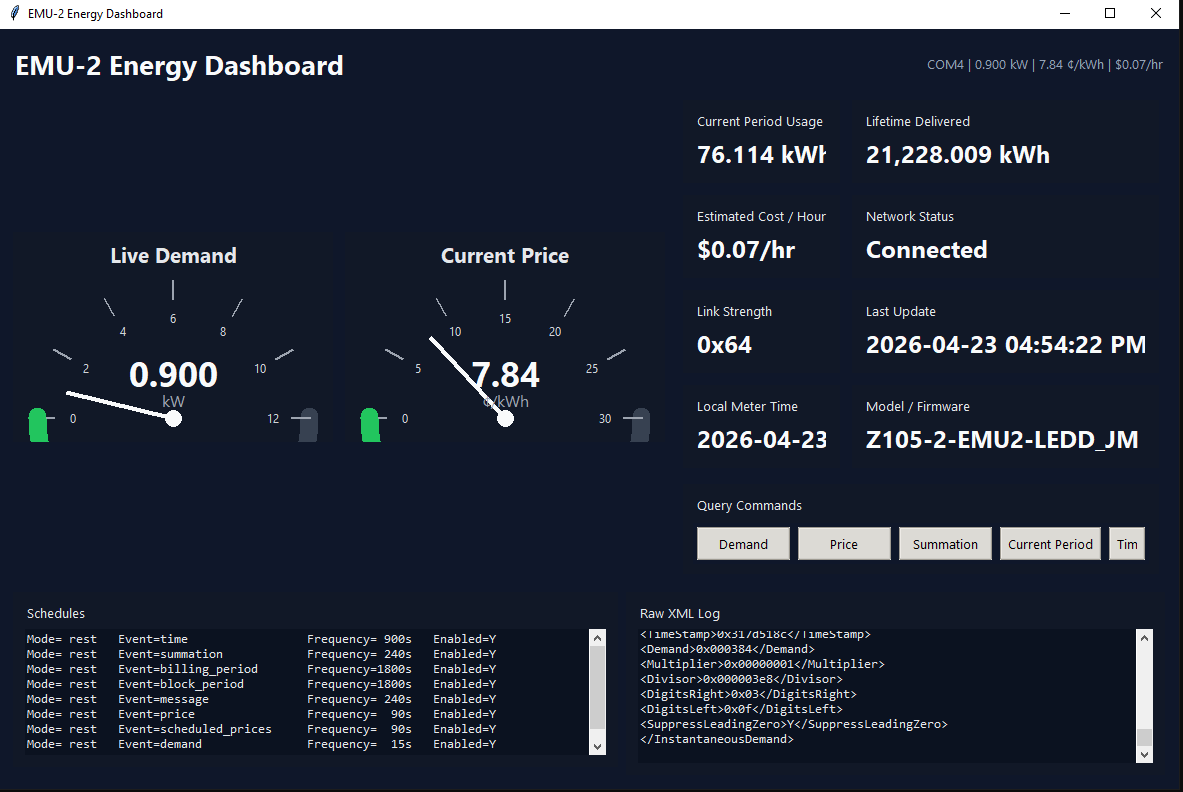
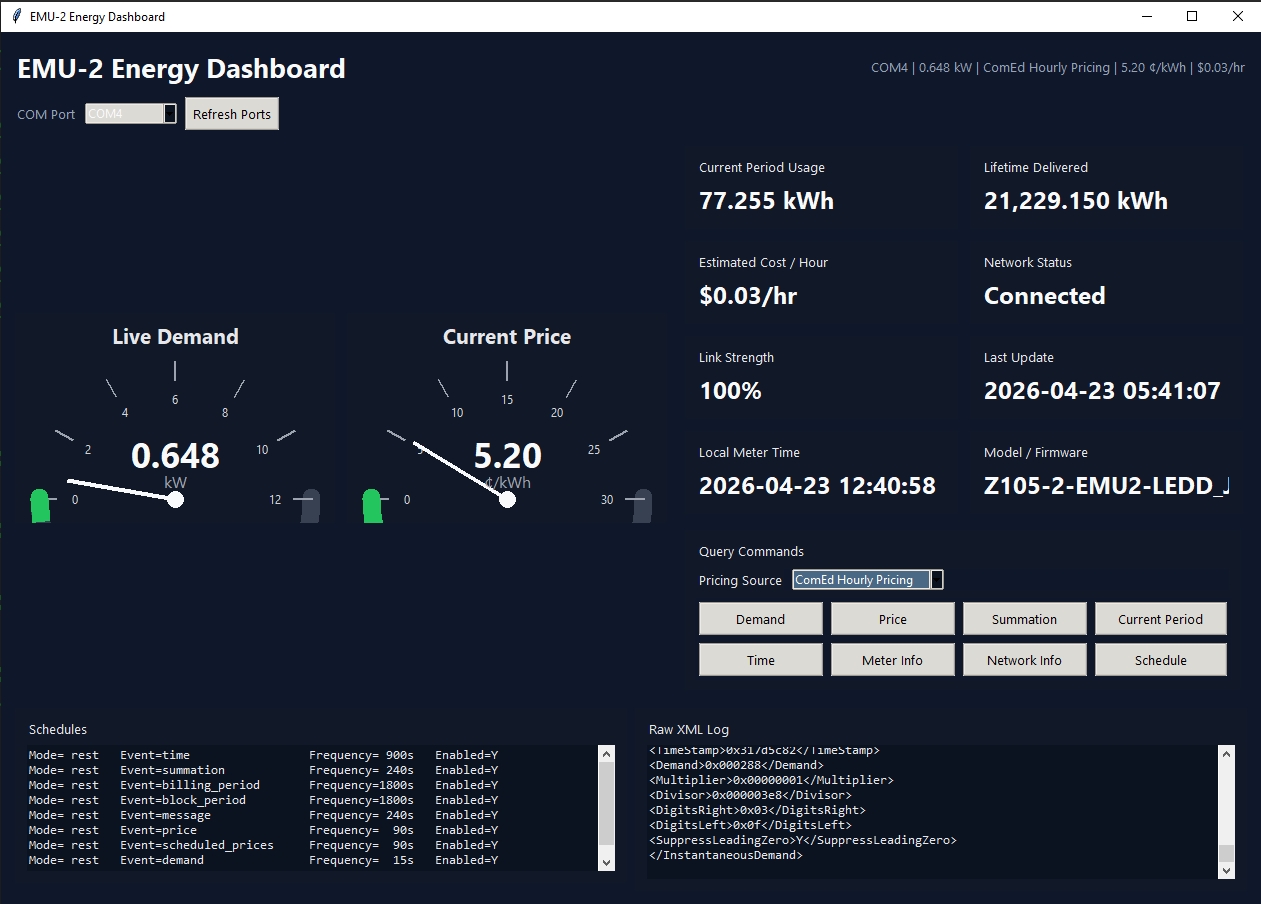
Persist pricing source selection

diff --git a/dashboard.py b/dashboard.py
@@ -504,7 +504,10 @@ class EmuDashboardApp:
             "schedule_lines": [],
         }
 
-        self.pricing_source_var = tk.StringVar(value=PRICING_SOURCE_NONE)
+        preferred_pricing_source = self.config_data.get("preferred_pricing_source") or PRICING_SOURCE_NONE
+        if preferred_pricing_source not in [PRICING_SOURCE_NONE, PRICING_SOURCE_EMU, PRICING_SOURCE_COMED]:
+            preferred_pricing_source = PRICING_SOURCE_NONE
+        self.pricing_source_var = tk.StringVar(value=preferred_pricing_source)
         self.comed_fetch_in_progress = False
 
         self._build_ui()
@@ -965,6 +968,8 @@ class EmuDashboardApp:
         return 0.0
 
     def on_pricing_source_changed(self, _event=None):
+        self.config_data["preferred_pricing_source"] = self.pricing_source_var.get()
+        save_app_config(self.config_data)
         if self.pricing_source_var.get() == PRICING_SOURCE_COMED:
             self.fetch_comed_price()
         self.refresh_ui()

diff --git a/README.md b/README.md
@@ -1,0 +1,45 @@
+# EMU-2 Smart Meter Data Dashboard
+
+Desktop dashboard for reading live EMU-2 smart meter data over a serial connection and presenting it in a simple Tkinter UI.
+
+![Dashboard Screenshot](Images/Screenshot.png)
+
+## Features
+
+- Live demand gauge in kW.
+- Current price gauge with selectable pricing source:
+  - No Pricing Source
+  - EMU-2 Price
+  - ComEd Hourly Pricing
+- ComEd pricing integration using the latest feed from `https://hourlypricing.comed.com/api?type=5minutefeed`.
+- Estimated cost per hour based on live demand and the active pricing source.
+- Current period usage and lifetime delivered energy cards.
+- Network status and link strength display, with link strength shown as a percentage.
+- Local meter time, firmware, and model details.
+- Schedule viewer and raw XML log panel.
+- COM port selector with saved preferred port.
+- Automatic reconnect with a 3 second retry delay if the EMU-2 is unavailable or disconnects.
+- Saved preferred pricing source across app restarts.
+
+## Requirements
+
+- Python 3.10+
+- `pyserial`
+- An EMU-2 connected over a serial COM port
+
+## Install
+
+```powershell
+pip install pyserial
+```
+
+## Run
+
+```powershell
+python dashboard.py
+```
+
+## Notes
+
+- The app stores user preferences in `dashboard_config.json`.
+- If `ComEd Hourly Pricing` is selected, the dashboard uses the ComEd feed for the price gauge and estimated hourly cost instead of the EMU-2 price cluster value.
